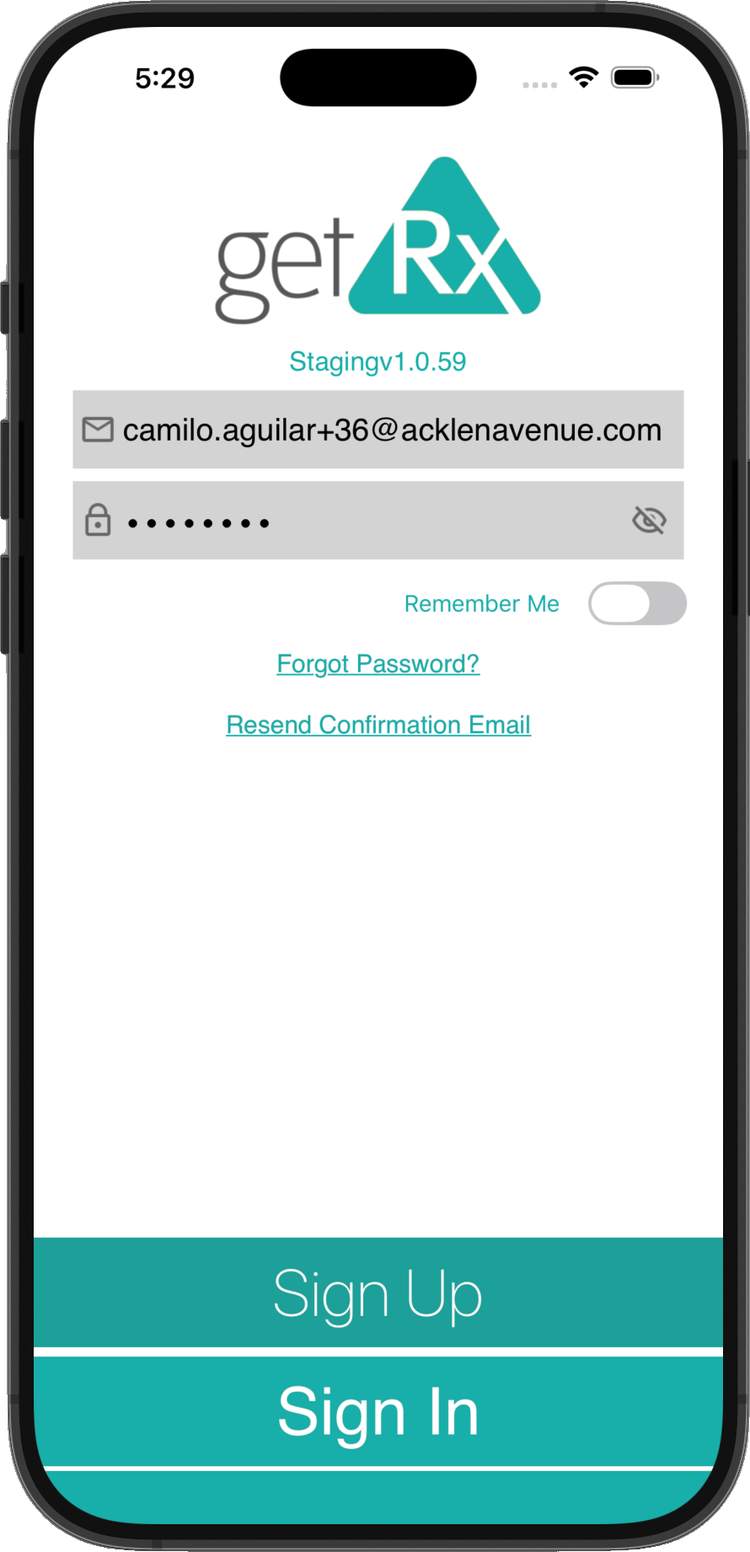
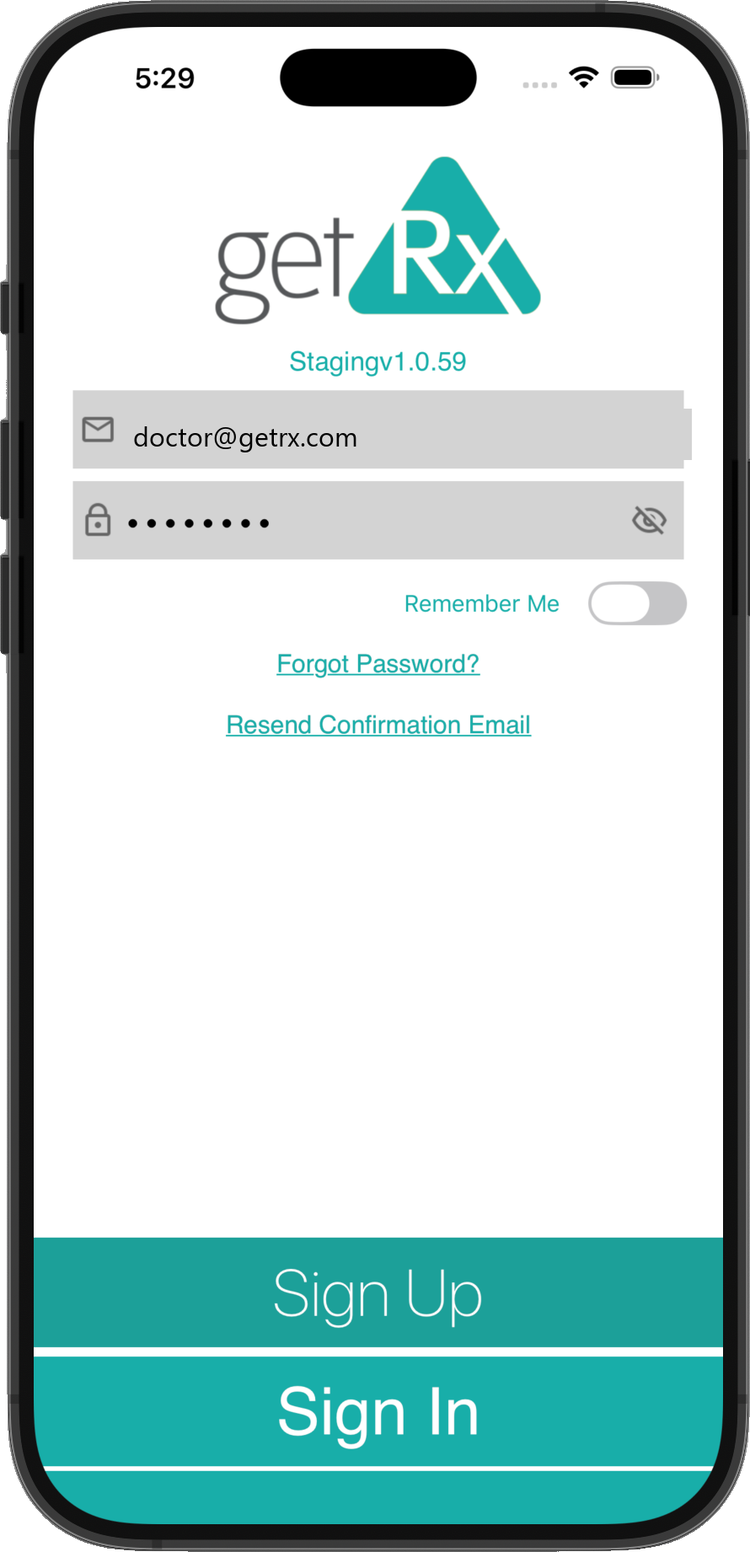
Apply pre-review changes from Dr. Rudd doc
- Remove refill mentions (Professional plan bullet, step copy, demo desc)
- Drop 'no fax' claim from controlled-substance section
- Demo walkthrough: rename steps to One-time setup / Manage patient Rx / Verify controlled substance
- Founder title: Dr. Rudd is Founder, Edward stays Co-founder
- Pricing sub copy centered to match heading
- FAQ: DirectTrust now certified, 2FA scope widened to every prescription
- Em-dash sweep across all user-facing copy
- login.png: replace camilo.aguilar email with doctor@getrx.com placeholder

diff --git a/index.html b/index.html
@@ -2,19 +2,19 @@
 <html lang="en">
 <head>
 <meta charset="UTF-8"><meta name="viewport" content="width=device-width, initial-scale=1.0">
-<meta name="description" content="getRx is the fully compliant digital prescription pad for prescribers — including controlled substances. Write and send any Rx in under 60 seconds. Built for vets, plastic surgeons, traveling physicians, and every other prescriber.">
-<title>getRx — Prescriptions, reimagined.</title>
+<meta name="description" content="getRx is the fully compliant digital prescription pad for prescribers, including controlled substances. Write and send any Rx in under 60 seconds. Built for vets, plastic surgeons, traveling physicians, and every other prescriber.">
+<title>getRx | Prescriptions, reimagined.</title>
 <link rel="icon" type="image/svg+xml" href="assets/favicon.svg">
 <link rel="icon" type="image/png" sizes="32x32" href="assets/favicon-32x32.png">
 <link rel="apple-touch-icon" sizes="180x180" href="assets/apple-touch-icon.png">
-<meta property="og:title" content="getRx — Prescriptions, reimagined.">
+<meta property="og:title" content="getRx | Prescriptions, reimagined.">
 <meta property="og:description" content="Write any prescription, controlled or standard, in under 60 seconds. DEA 21 CFR Part 1311 compliant.">
 <meta property="og:type" content="website">
 <meta property="og:image" content="assets/og-image.png">
 <meta property="og:image:width" content="1200">
 <meta property="og:image:height" content="630">
 <meta name="twitter:card" content="summary_large_image">
-<meta name="twitter:title" content="getRx — Prescriptions, reimagined.">
+<meta name="twitter:title" content="getRx | Prescriptions, reimagined.">
 <meta name="twitter:description" content="Write any prescription, controlled or standard, in under 60 seconds.">
 <meta name="twitter:image" content="assets/og-image.png">
 <link rel="preconnect" href="https://fonts.googleapis.com">
@@ -22,7 +22,7 @@
 <link href="https://fonts.googleapis.com/css2?family=Plus+Jakarta+Sans:wght@400;500;600;700;800&family=DM+Sans:ital,opsz,wght@0,9..40,300;0,9..40,400;0,9..40,500;1,9..40,300&family=JetBrains+Mono:wght@300;400;500&display=swap" rel="stylesheet">
 <script src="https://cdn.tailwindcss.com"></script>
 <script src="https://unpkg.com/lucide@latest"></script>
-<!-- PAID MEDIA: tracking pixel slot — drop GA4, Meta, TikTok, LinkedIn pixel snippets here -->
+<!-- PAID MEDIA: tracking pixel slot. Drop GA4, Meta, TikTok, LinkedIn pixel snippets here -->
 <!-- /PAID MEDIA -->
 <link rel="stylesheet" href="styles.css">
 </head>
@@ -81,7 +81,7 @@
   <div class="cs-banner-inner">
     <div style="display:flex;align-items:center;gap:12px">
       <div class="cs-tag"><span class="cs-pulse"></span>Live Now</div>
-      <span class="cs-banner-text"><strong>Controlled substance e-prescribing is live</strong> — Schedule II–V, DEA 21 CFR Part 1311 compliant</span>
+      <span class="cs-banner-text"><strong>Controlled substance e-prescribing is live.</strong> Schedule II–V, DEA 21 CFR Part 1311 compliant</span>
     </div>
     <div class="cs-pills">
       <span class="cs-pill">Sched II</span><span class="cs-pill">Sched III</span><span class="cs-pill">Sched IV</span><span class="cs-pill">Sched V</span>
@@ -120,7 +120,7 @@
         <span class="line"><span class="line-inner"><span class="grad-anim">controlled or standard,</span></span></span>
         <span class="line"><span class="line-inner">in under 60 seconds.</span></span>
       </h1>
-      <p class="hero-sub">getRx gives prescribers — vets, plastic surgeons, traveling physicians, and every other clinician — a fully compliant digital prescription pad. Including controlled substances. Instant delivery. Full compliance.</p>
+      <p class="hero-sub">getRx gives prescribers (vets, plastic surgeons, traveling physicians, and every other clinician) a fully compliant digital prescription pad. Including controlled substances. Instant delivery. Full compliance.</p>
       <div class="hero-actions">
         <a href="https://www.getrx.com/prescribers/new" class="btn-primary">Sign Up</a>
         <a href="#how-it-works" class="btn-outline">See How It Works <i data-lucide="arrow-right" style="width:15px;height:15px"></i></a>
@@ -150,7 +150,7 @@
         <div class="phone-halo-2"></div>
         <div class="phone-wrap">
           <div class="phone-shell">
-            <img class="phone-img" src="assets/screens/pharmacy-select.png" alt="getRx — pick a pharmacy from the map for an EPCS prescription" loading="eager">
+            <img class="phone-img" src="assets/screens/pharmacy-select.png" alt="getRx, pick a pharmacy from the map for an EPCS prescription" loading="eager">
           </div>
           <div class="ui-badge badge-top">
             <div class="badge-icon"><i data-lucide="check-circle" style="width:15px;height:15px"></i></div>
@@ -205,7 +205,7 @@
     <div class="process-header reveal">
       <div class="section-eye">How It Works</div>
       <h2 class="section-head">Five steps. Under <span class="grad-text">60 seconds.</span></h2>
-      <p class="section-sub">From patient selection to pharmacy delivery — the fastest compliant prescription workflow ever built.</p>
+      <p class="section-sub">From patient selection to pharmacy delivery. The fastest compliant prescription workflow ever built.</p>
     </div>
     <div class="process-list">
       <div class="process-step reveal">
@@ -226,14 +226,14 @@
         <div class="process-num"><i data-lucide="clipboard-list" style="width:18px;height:18px"></i></div>
         <div class="process-body">
           <div class="process-title">Set Instructions</div>
-          <div class="process-desc">Frequency, quantity, refills — entered in standard medical notation. Smart suggestions speed up your workflow.</div>
+          <div class="process-desc">Frequency and quantity, entered in standard medical notation. Smart suggestions speed up your workflow.</div>
         </div>
       </div>
       <div class="process-step reveal reveal-d3">
         <div class="process-num"><i data-lucide="map-pin" style="width:18px;height:18px"></i></div>
         <div class="process-body">
           <div class="process-title">Verify Pharmacy</div>
-          <div class="process-desc">Auto-filled from patient history and searchable nationwide. Confirm the pharmacy in one tap — no phone calls.</div>
+          <div class="process-desc">Auto-filled from patient history and searchable nationwide. Confirm the pharmacy in one tap. No phone calls.</div>
         </div>
       </div>
       <div class="process-step reveal reveal-d4">
@@ -256,11 +256,11 @@
       <div class="cs-content reveal">
         <div class="section-eye">Controlled Substances</div>
         <h2 class="section-head">The only prescription pad that handles <span class="grad-text">it all.</span></h2>
-        <p class="section-sub">For years, controlled substance prescribing meant paper pads, phone call overrides, and compliance headaches. getRx eliminates all of it — standard and controlled, one workflow, one app.</p>
+        <p class="section-sub">For years, controlled substance prescribing meant paper pads, phone call overrides, and compliance headaches. getRx eliminates all of it. Standard and controlled, one workflow, one app.</p>
         <div class="cs-list">
           <div class="cs-item">
             <div class="cs-check"><i data-lucide="check" style="width:14px;height:14px"></i></div>
-            <div class="cs-item-text"><strong>Write Schedule II–V prescriptions</strong> directly from iPhone — no paper, no phone overrides, no fax machines.</div>
+            <div class="cs-item-text"><strong>Write Schedule II–V prescriptions</strong> directly from iPhone. No paper. No phone overrides.</div>
           </div>
           <div class="cs-item">
             <div class="cs-check"><i data-lucide="check" style="width:14px;height:14px"></i></div>
@@ -268,11 +268,11 @@
           </div>
           <div class="cs-item">
             <div class="cs-check"><i data-lucide="check" style="width:14px;height:14px"></i></div>
-            <div class="cs-item-text"><strong>Full audit trail</strong> automatically generated — every Rx, timestamped, identity-verified, searchable.</div>
+            <div class="cs-item-text"><strong>Full audit trail</strong> automatically generated. Every Rx, timestamped, identity-verified, searchable.</div>
           </div>
           <div class="cs-item">
             <div class="cs-check"><i data-lucide="check" style="width:14px;height:14px"></i></div>
-            <div class="cs-item-text"><strong>Delivered instantly</strong> to the pharmacy — same speed as a standard prescription.</div>
+            <div class="cs-item-text"><strong>Delivered instantly</strong> to the pharmacy. Same speed as a standard prescription.</div>
           </div>
           <div class="cs-item">
             <div class="cs-check"><i data-lucide="check" style="width:14px;height:14px"></i></div>
@@ -295,11 +295,11 @@
           </div>
           <div class="cs-dea">
             <div class="cs-dea-icon"><i data-lucide="shield-check" style="width:16px;height:16px"></i></div>
-            <span class="cs-dea-text">DEA 21 CFR Part 1311 — Fully Compliant</span>
+            <span class="cs-dea-text">DEA 21 CFR Part 1311 · Fully Compliant</span>
           </div>
           <div class="cs-dea" style="margin-top:8px;border-color:rgba(59,184,175,.12)">
             <div class="cs-dea-icon"><i data-lucide="fingerprint" style="width:16px;height:16px"></i></div>
-            <span class="cs-dea-text">Biometric 2FA — Every Controlled Rx</span>
+            <span class="cs-dea-text">Biometric 2FA · Every Controlled Rx</span>
           </div>
         </div>
       </div>
@@ -309,7 +309,7 @@
 
 <div class="section-divider"></div>
 
-<!-- RX DEMO — scroll-pinned page-flip walkthrough -->
+<!-- RX DEMO: scroll-pinned page-flip walkthrough -->
 <section class="demo-section" id="demo" style="scroll-margin-top:96px">
   <div class="demo-scroll" id="demo-scroll">
     <div class="demo-pin">
@@ -317,12 +317,12 @@
         <div class="demo-copy">
           <div class="section-eye">See it in action</div>
           <h2 class="section-head">Built around how prescribers <span class="grad-text">actually work.</span></h2>
-          <p class="section-sub" style="margin-bottom:24px">Scroll to step through the four screens that make a prescription happen — sign in, set up your profile, pick a patient, sign and send.</p>
+          <p class="section-sub" style="margin-bottom:24px">Scroll through the four screens that make a prescription happen. Sign in, set up your profile, manage patient Rx, verify and send.</p>
           <div class="demo-step-list" id="demo-steps">
             <div class="demo-step active" data-i="0"><span class="demo-step-num">01</span><div><div class="demo-step-title">Sign in securely</div><div class="demo-step-desc">DEA + Authy 2FA, in seconds.</div></div></div>
-            <div class="demo-step" data-i="1"><span class="demo-step-num">02</span><div><div class="demo-step-title">Profile is your pad</div><div class="demo-step-desc">NPI, DEA #, signature — set once.</div></div></div>
-            <div class="demo-step" data-i="2"><span class="demo-step-num">03</span><div><div class="demo-step-title">Pick a patient</div><div class="demo-step-desc">Full Rx history, cancel or refill in one tap.</div></div></div>
-            <div class="demo-step" data-i="3"><span class="demo-step-num">04</span><div><div class="demo-step-title">Sign &amp; send</div><div class="demo-step-desc">Two-factor confirm, delivered to the pharmacy.</div></div></div>
+            <div class="demo-step" data-i="1"><span class="demo-step-num">02</span><div><div class="demo-step-title">One-time setup</div><div class="demo-step-desc">NPI, DEA #, signature. Set once.</div></div></div>
+            <div class="demo-step" data-i="2"><span class="demo-step-num">03</span><div><div class="demo-step-title">Manage patient Rx</div><div class="demo-step-desc">Full Rx history. Cancel in one tap.</div></div></div>
+            <div class="demo-step" data-i="3"><span class="demo-step-num">04</span><div><div class="demo-step-title">Verify controlled substance</div><div class="demo-step-desc">Two-factor confirm for controlled substance Rx. Delivered to the pharmacy.</div></div></div>
           </div>
         </div>
         <div class="demo-stage-wrap">
@@ -330,7 +330,7 @@
             <div class="flip-glow"></div>
             <div class="flip-book" id="flip-book">
               <div class="flip-page" data-i="0"><img src="assets/screens/login.png" alt="getRx login screen" loading="eager"></div>
-              <div class="flip-page" data-i="1"><img src="assets/screens/profile.png" alt="My Profile — DEA, NPI, signature" loading="eager"></div>
+              <div class="flip-page" data-i="1"><img src="assets/screens/profile.png" alt="My Profile, DEA, NPI, signature" loading="eager"></div>
               <div class="flip-page" data-i="2"><img src="assets/screens/patient-rx-list.png" alt="Patient Rx history with cancel option" loading="eager"></div>
               <div class="flip-page" data-i="3"><img src="assets/screens/confirm-sign.png" alt="Confirm and sign controlled-substance prescription" loading="eager"></div>
             </div>
@@ -340,11 +340,11 @@
                 <span class="active" data-i="0" aria-label="Login"></span>
                 <span data-i="1" aria-label="Profile"></span>
                 <span data-i="2" aria-label="Patient list"></span>
-                <span data-i="3" aria-label="Confirm and sign"></span>
+                <span data-i="3" aria-label="Verify controlled substance"></span>
               </div>
               <button class="flip-next" id="flip-next" aria-label="Next screen">›</button>
             </div>
-            <div class="flip-caption"><strong id="flip-label">01 — Login</strong></div>
+            <div class="flip-caption"><strong id="flip-label">01 Login</strong></div>
           </div>
         </div>
       </div>
@@ -352,7 +352,7 @@
   </div>
 </section>
 
-<!-- VIDEO MODULE — walkthrough video -->
+<!-- VIDEO MODULE: walkthrough video -->
 <section class="video-section" id="video" style="scroll-margin-top:96px">
   <div class="container">
     <div class="video-header reveal">
@@ -384,7 +384,7 @@
         <div class="feat-icon"><i data-lucide="timer" style="width:20px;height:20px"></i></div>
         <div class="feat-stat grad-text">&lt;60s</div>
         <div class="feat-title">Average Prescription Time</div>
-        <div class="feat-desc">From patient selection to pharmacy delivery — the fastest compliant Rx workflow ever built. Most prescribers complete their first Rx in under 45 seconds.</div>
+        <div class="feat-desc">From patient selection to pharmacy delivery. The fastest compliant Rx workflow ever built. Most prescribers complete their first Rx in under 45 seconds.</div>
       </div>
       <div class="feat-card reveal reveal-d1">
         <div class="feat-icon gold"><i data-lucide="lock" style="width:20px;height:20px"></i></div>
@@ -447,7 +447,7 @@
         <div class="aud-desc">Prescribe on the go from any location with your full roster, DEA credentials, and nationwide pharmacy access at your fingertips.</div>
       </div>
     </div>
-    <p class="audience-cap reveal reveal-d3" style="text-align:center;margin-top:36px;color:var(--muted2);font-size:14.5px;max-width:680px;margin-left:auto;margin-right:auto">Vets and plastic surgeons are who we built for first — but if you write prescriptions, getRx works for you.</p>
+    <p class="audience-cap reveal reveal-d3" style="text-align:center;margin-top:36px;color:var(--muted2);font-size:14.5px;max-width:680px;margin-left:auto;margin-right:auto">Vets and plastic surgeons are who we built for first. If you write prescriptions, getRx works for you.</p>
   </div>
 </section>
 
@@ -465,7 +465,7 @@
         <div class="vision-icon vi-teal"><i data-lucide="globe" style="width:20px;height:20px"></i></div>
         <div class="vision-status vs-teal"><i data-lucide="check-circle" style="width:10px;height:10px"></i>Prescribing Infrastructure</div>
         <div class="vision-title">Real-Time, Anywhere</div>
-        <div class="vision-desc">A vet in a pasture, a surgeon between procedures, a physician on a house call — getRx works wherever medicine is practiced. No boundaries.</div>
+        <div class="vision-desc">A vet in a pasture, a surgeon between procedures, a physician on a house call. getRx works wherever medicine is practiced. No boundaries.</div>
       </div>
       <div class="vision-card vc-gold reveal reveal-d1">
         <div class="vision-icon vi-gold"><i data-lucide="zap" style="width:20px;height:20px"></i></div>
@@ -488,14 +488,14 @@
       <div class="about-copy reveal">
         <div class="section-eye">About getRx</div>
         <h2 class="section-head">Built by a doctor for <span class="grad-text">doctors.</span></h2>
-        <p class="section-sub">getRx is a mobile prescription platform that powers healthier lifestyles, faster and more conveniently. It connects prescribers with more than 55,000 pharmacies across the US — letting you send any prescription, including controlled substances, in under 60 seconds.</p>
-        <p class="section-sub" style="margin-top:14px">Founded by a practicing physician and a healthcare attorney, the platform was built around the way prescribing actually works in the field — not the way insurance forms wish it did.</p>
+        <p class="section-sub">getRx is a mobile prescription platform that powers healthier lifestyles, faster and more conveniently. It connects prescribers with more than 55,000 pharmacies across the US, letting you send any prescription, including controlled substances, in under 60 seconds.</p>
+        <p class="section-sub" style="margin-top:14px">Founded by a practicing physician and a healthcare attorney, the platform was built around the way prescribing actually works in the field, not the way insurance forms wish it did.</p>
       </div>
       <div class="founder-grid reveal reveal-d2">
         <div class="founder-card">
           <div class="founder-avatar">DR</div>
           <div class="founder-name">Dan Rudd, M.D.</div>
-          <div class="founder-title">Co-founder</div>
+          <div class="founder-title">Founder</div>
           <div class="founder-bio">Internal medicine physician with 30+ years of practice in Tennessee. Cedar Grove Medical Associates, Smyrna, TN.</div>
         </div>
         <div class="founder-card">
@@ -519,7 +519,7 @@
       <h2 class="section-head">Simple, per-prescriber <span class="grad-text">pricing.</span></h2>
       <p class="section-sub">Patients use getRx for free. Prescribers pick the plan that matches their volume.</p>
     </div>
-    <div class="pricing-banner reveal reveal-d1">🔥 First 100 prescribers — <strong>30 days free.</strong></div>
+    <div class="pricing-banner reveal reveal-d1">🔥 First 100 prescribers: <strong>30 days free.</strong></div>
     <!-- DEV: $299 Premium tier pending legal/finance sign-off; add a third .price-card here when approved. -->
     <div class="pricing-grid">
       <div class="price-card reveal reveal-d1">
@@ -531,7 +531,6 @@
           <li>100 prescriptions free / month</li>
           <li>Mobile + web prescribing</li>
           <li>Pharmacy &amp; drug database</li>
-          <li>Approve refill requests</li>
           <li>Controlled substances (Schedule II–V)</li>
         </ul>
         <a href="https://www.getrx.com/prescribers/new" class="btn-primary">Sign Up</a>
@@ -573,19 +572,19 @@
       </div>
       <div class="faq-item">
         <button class="faq-q" aria-expanded="false">Which pharmacies can receive prescriptions?</button>
-        <div class="faq-a">Any of the 55,000+ pharmacies across the US for standard prescriptions. For controlled substances, getRx delivers to a growing network of 22,000+ pharmacies including Walgreens, Albertsons, and Costco — with more partners coming online in 2026.</div>
+        <div class="faq-a">Any of the 55,000+ pharmacies across the US for standard prescriptions. For controlled substances, getRx delivers to a growing network of 22,000+ pharmacies including Walgreens, Albertsons, and Costco, with more partners coming online in 2026.</div>
       </div>
       <div class="faq-item">
         <button class="faq-q" aria-expanded="false">Is getRx DEA compliant for Schedule II–V?</button>
-        <div class="faq-a">Yes. getRx is built to DEA 21 CFR Part 1311 standards for electronic prescribing of controlled substances. Direct Trust certification is in progress.</div>
+        <div class="faq-a">Yes. getRx is built to DEA 21 CFR Part 1311 standards for electronic prescribing of controlled substances. Direct Trust certified.</div>
       </div>
       <div class="faq-item">
         <button class="faq-q" aria-expanded="false">How is two-factor authentication handled?</button>
-        <div class="faq-a">getRx uses Authy for two-factor authentication on every controlled-substance prescription, in line with DEA EPCS requirements.</div>
+        <div class="faq-a">getRx uses Authy for two-factor authentication on every prescription, exceeding DEA EPCS requirements for controlled substances.</div>
       </div>
       <div class="faq-item">
         <button class="faq-q" aria-expanded="false">Does it integrate with my EMR?</button>
-        <div class="faq-a">No — getRx is a standalone prescription platform, not an EMR add-on. Your prescription history and patient roster live inside getRx.</div>
+        <div class="faq-a">No. getRx is a standalone prescription platform, not an EMR add-on. Your prescription history and patient roster live inside getRx.</div>
       </div>
       <div class="faq-item">
         <button class="faq-q" aria-expanded="false">Is it HIPAA compliant?</button>
@@ -647,13 +646,13 @@
 <template id="tpl-privacy">
   <h2 id="modal-title">Privacy Policy</h2>
   <div class="policy-meta">Coming soon</div>
-  <p>Our Privacy Policy is being finalized with counsel. In the meantime, getRx is HIPAA compliant — every prescription, message, and credential is end-to-end encrypted and stored in accordance with HIPAA Security Rule standards.</p>
+  <p>Our Privacy Policy is being finalized with counsel. In the meantime, getRx is HIPAA compliant. Every prescription, message, and credential is end-to-end encrypted and stored in accordance with HIPAA Security Rule standards.</p>
   <p>For specific questions about how we collect, use, and protect your data, email <a href="mailto:info@getrx.com">info@getrx.com</a>.</p>
 </template>
 <template id="tpl-terms">
   <h2 id="modal-title">Terms of Service</h2>
   <div class="policy-meta">Coming soon</div>
-  <p>Our Terms of Service are being finalized with counsel. By creating a getRx account or using the getRx for Prescribers app, you agree to use the platform in accordance with applicable federal and state regulations governing electronic prescribing — including DEA 21 CFR Part 1311 for controlled substances.</p>
+  <p>Our Terms of Service are being finalized with counsel. By creating a getRx account or using the getRx for Prescribers app, you agree to use the platform in accordance with applicable federal and state regulations governing electronic prescribing, including DEA 21 CFR Part 1311 for controlled substances.</p>
   <p>For specific questions, email <a href="mailto:info@getrx.com">info@getrx.com</a>.</p>
 </template>
 
@@ -676,9 +675,9 @@
     <div class="cta-wrap reveal">
       <div class="cta-glow"></div>
       <div class="cta-glow2"></div>
-      <div class="cta-eye"><span class="eyebrow-dot"></span>Full release coming — including controlled substance support</div>
+      <div class="cta-eye"><span class="eyebrow-dot"></span>Full release coming, including controlled substance support</div>
       <h2 class="cta-heading">Ready to prescribe<br><span class="grad-anim">smarter?</span></h2>
-      <p class="cta-sub">Join the prescribers already saving time every day with getRx — now with full controlled substance support. First 100 prescribers get 30 days free.</p>
+      <p class="cta-sub">Join the prescribers already saving time every day with getRx, now with full controlled substance support. First 100 prescribers get 30 days free.</p>
       <div class="cta-actions">
         <a href="https://www.getrx.com/prescribers/new" class="btn-primary">Sign Up</a>
         <a href="#contact" class="btn-outline">Contact Us <i data-lucide="arrow-right" style="width:15px;height:15px"></i></a>
@@ -737,7 +736,7 @@
     </div>
   </div>
   <div class="footer-bottom">
-    <div class="footer-copy">© 2026 getRx — All rights reserved.</div>
+    <div class="footer-copy">© 2026 getRx · All rights reserved.</div>
     <div class="footer-copy">DEA 21 CFR Part 1311 compliant · HIPAA · Direct Trust certified</div>
   </div>
   <div class="footer-built">

diff --git a/styles.css b/styles.css
@@ -494,6 +494,7 @@ footer{border-top:1px solid rgba(59,184,175,.08);padding:64px 0 32px}
 .pricing-header{text-align:center;margin-bottom:36px}
 .pricing-header .section-eye{justify-content:center}
 .pricing-header .section-eye::before{display:none}
+.pricing-header .section-sub{margin:0 auto;text-align:center}
 .pricing-banner{display:flex;align-items:center;justify-content:center;gap:10px;margin:0 auto 36px;max-width:720px;padding:14px 22px;background:linear-gradient(135deg,rgba(240,165,0,.14),rgba(59,184,175,.08));border:1px solid rgba(240,165,0,.32);border-radius:100px;color:var(--gold2);font-weight:600;font-size:14.5px;letter-spacing:.01em}
 .pricing-banner strong{color:var(--white)}
 .pricing-grid{display:grid;grid-template-columns:repeat(2,minmax(0,1fr));gap:20px;max-width:880px;margin:0 auto}

diff --git a/script.js b/script.js
@@ -133,7 +133,7 @@ document.querySelectorAll('.feat-card').forEach(card=>{
   const dots=[...stage.querySelectorAll('.flip-dots span')];
   const steps=[...document.querySelectorAll('#demo-steps .demo-step')];
   const label=document.getElementById('flip-label');
-  const labels=['01 — Login','02 — Profile','03 — Patients & Rx','04 — Confirm & Sign'];
+  const labels=['01 Login','02 Profile','03 Patients & Rx','04 Verify Controlled Substance'];
   const N=pages.length;
   const mq=matchMedia('(max-width:1024px)');
   const isMobile=()=>mq.matches;
